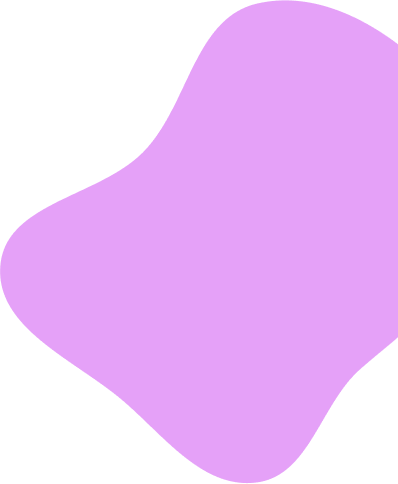
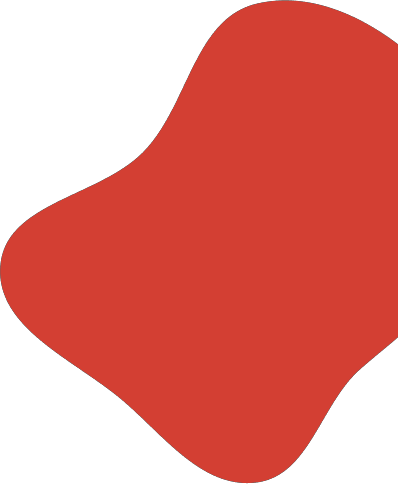
new update

diff --git a/src/globalStyles.js b/src/globalStyles.js
@@ -6,7 +6,7 @@ export const GlobalStyle = createGlobalStyle`
    --background: #eff7f9;
    --black:#0a0b10;
    --purple:#B31312;
-   --pink:#BB2525;
+   --pink:#2b44ff;
    --white:#fff;
    --nav:#35353f;
    --nav2:#3f3d56;
